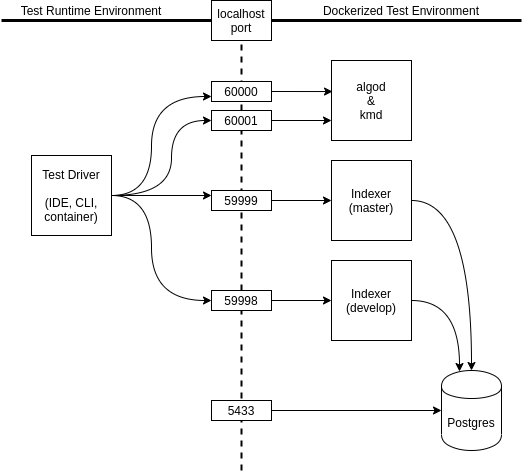
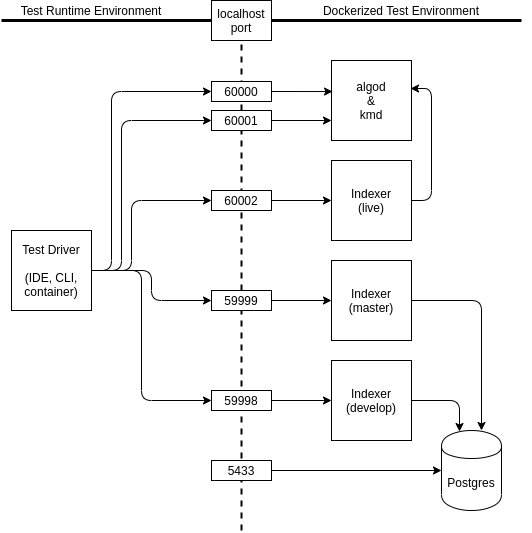
Add a 'live' indexer which connects to algod.

diff --git a/docker/algod/setup.py b/docker/algod/setup.py
@@ -31,6 +31,7 @@ configure.add_argument('--network-dir', required=True, help='Path to create netw
 
 start = subparsers.add_parser('start', parents=[base_parser], help='Start the network.')
 start.add_argument('--network-dir', required=True, help='Path to create network.')
+start.add_argument('--copy-genesis-to', required=False, help='Copy the genesis to a given folder.')
 
 pp = pprint.PrettyPrinter(indent=4)
 
@@ -114,6 +115,16 @@ def start_handler(args):
     """
     start subcommand - start algod + kmd
     """
+    # Optionally copy the genesis file to shared location before starting.
+    if args.copy_genesis_to is not None:
+        print('copying genesis file...')
+        node_dir, _ = algod_directories(args.network_dir)
+        genesis_file = join(node_dir, 'genesis.json')
+        dest = join(args.copy_genesis_to, 'genesis.json')
+        shutil.copyfile(genesis_file, dest)
+    else:
+        print('Not copying genesis file...')
+
     start_network(args.bin_dir, args.network_dir)
 
 
